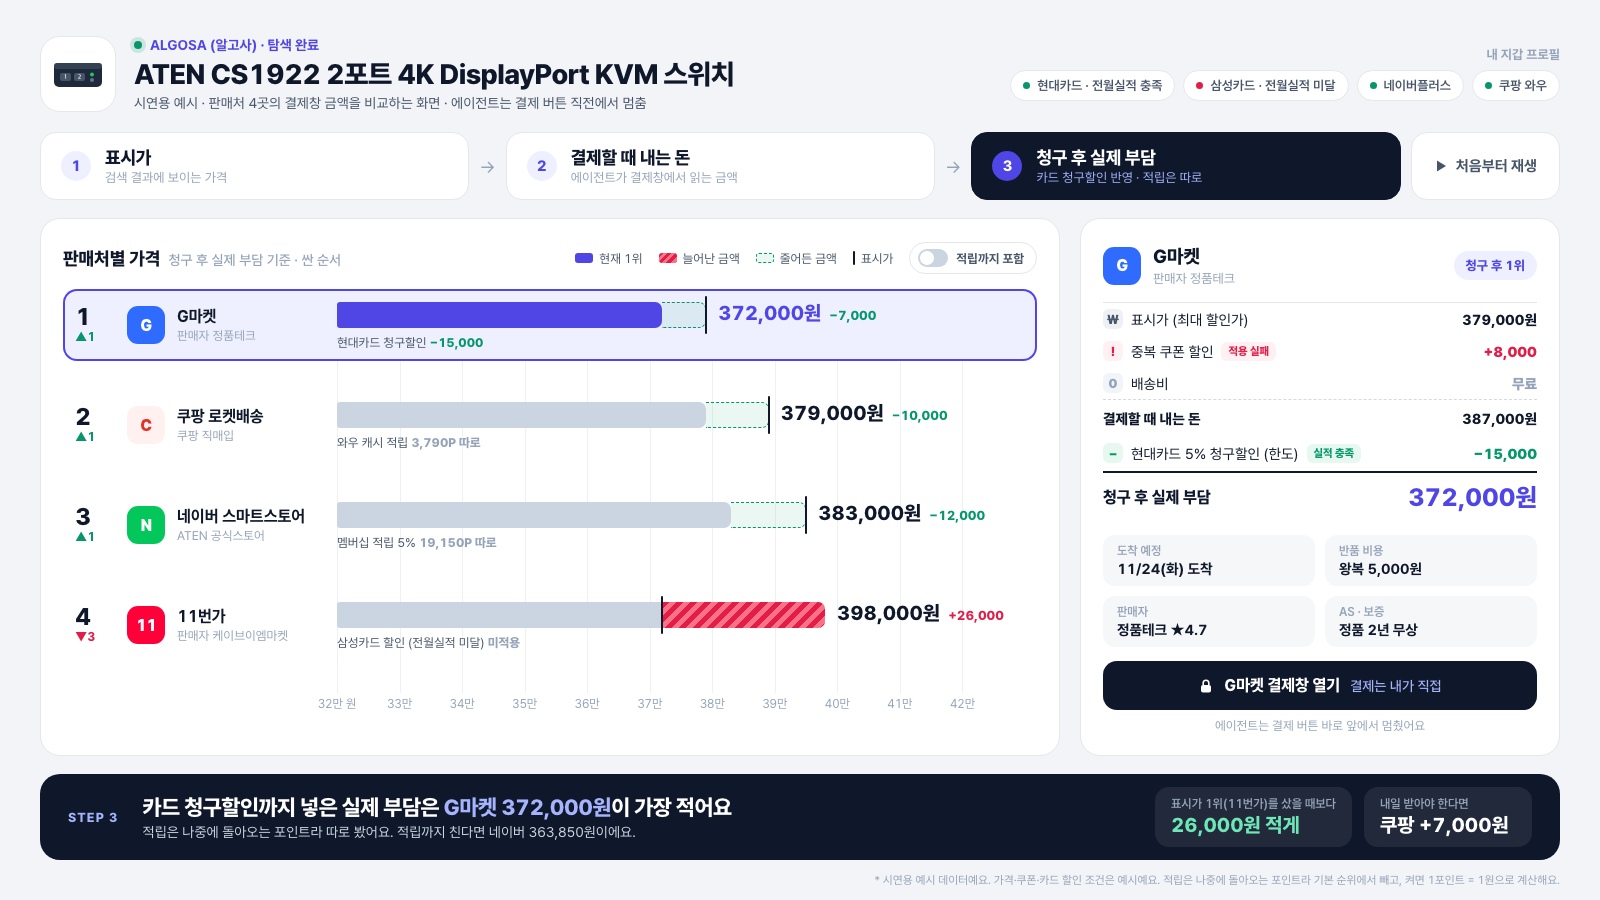
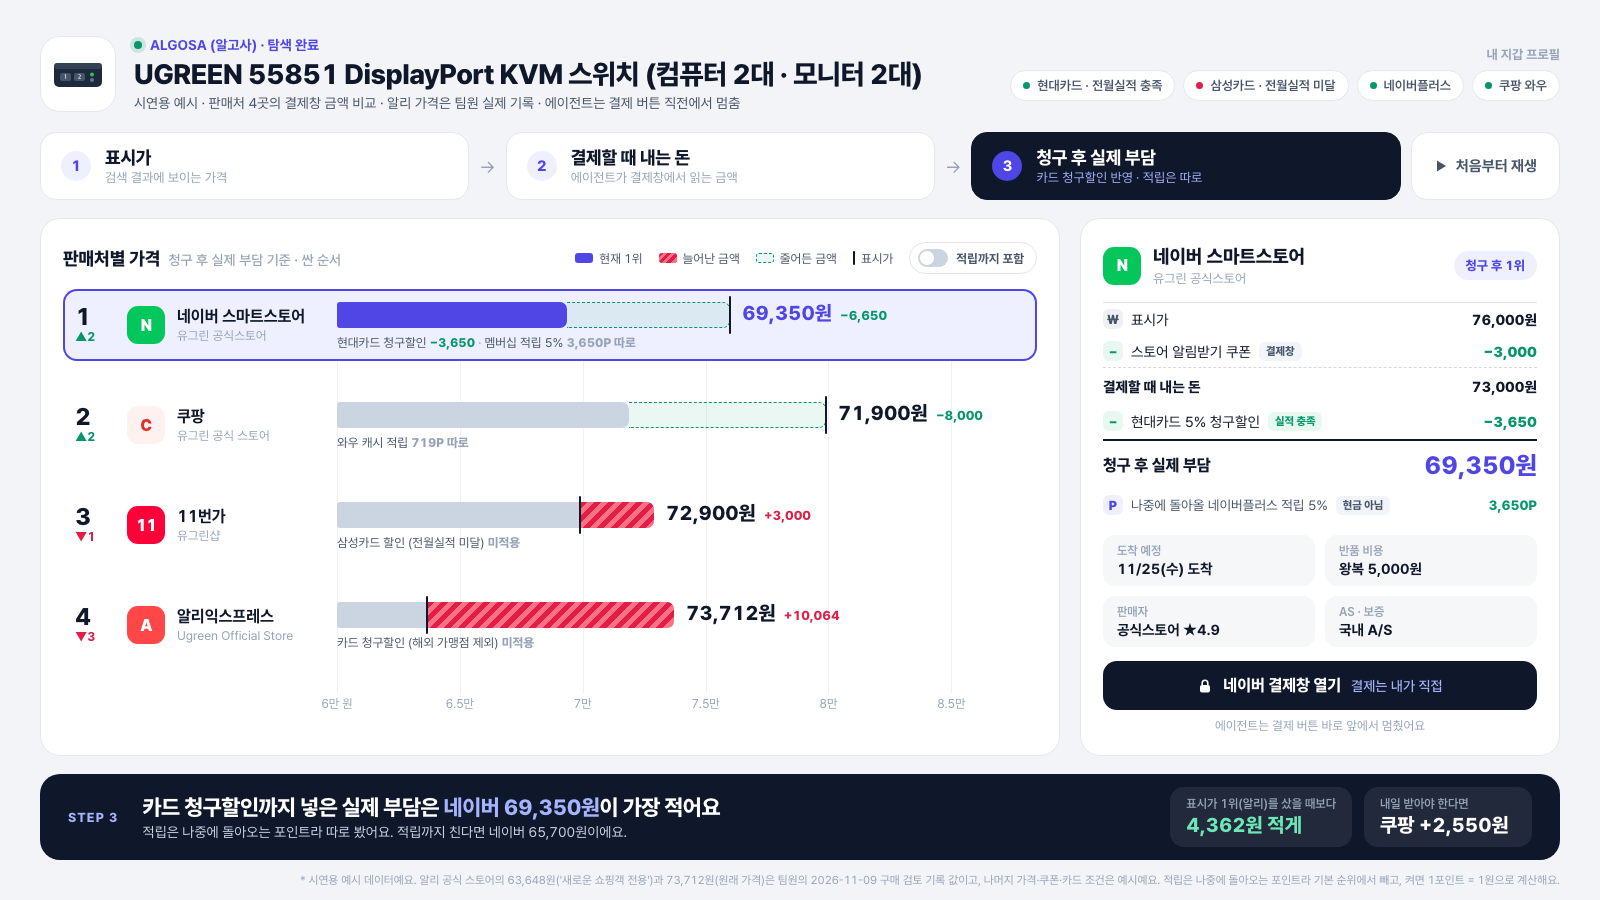
feat: switch demo board to UGREEN 55851 from team purchase record

diff --git a/prototype/price-compare-kvm.html b/prototype/price-compare-kvm.html
@@ -167,8 +167,8 @@ button{font:inherit;color:inherit}
       </div>
       <div>
         <div class="kicker"><span class="dot"></span>ALGOSA (알고사) · 탐색 완료</div>
-        <div class="title">ATEN CS1922 2포트 4K DisplayPort KVM 스위치</div>
-        <div class="sub">시연용 예시 · 판매처 4곳의 결제창 금액을 비교하는 화면 · 에이전트는 결제 버튼 직전에서 멈춤</div>
+        <div class="title">UGREEN 55851 DisplayPort KVM 스위치 (컴퓨터 2대 · 모니터 2대)</div>
+        <div class="sub">시연용 예시 · 판매처 4곳의 결제창 금액 비교 · 알리 가격은 팀원 실제 기록 · 에이전트는 결제 버튼 직전에서 멈춤</div>
       </div>
     </div>
     <div class="wallet">
@@ -211,7 +211,7 @@ button{font:inherit;color:inherit}
     <div class="ins-stats" id="insStats"></div>
   </section>
 
-  <div class="foot">* 시연용 예시 데이터예요. 가격·쿠폰·카드 할인 조건은 예시예요. 적립은 나중에 돌아오는 포인트라 기본 순위에서 빼고, 켜면 1포인트 = 1원으로 계산해요.</div>
+  <div class="foot">* 시연용 예시 데이터예요. 알리 공식 스토어의 63,648원('새로운 쇼핑객 전용')과 73,712원(원래 가격)은 팀원의 2026-11-09 구매 검토 기록 값이고, 나머지 가격·쿠폰·카드 조건은 예시예요. 적립은 나중에 돌아오는 포인트라 기본 순위에서 빼고, 켜면 1포인트 = 1원으로 계산해요.</div>
 </div>
 </div>
 
@@ -225,45 +225,44 @@ const STAGES = [
 // k: base | add | sub | fail(할인 적용 실패로 늘어난 금액) | miss(혜택 미적용, 0원) | zero(무료 항목)
 //    point(나중에 돌아오는 적립 — 현금이 아니라서 기본 순위에서 제외, 토글로 포함)
 const MALLS = [
-  {id:'naver', name:'네이버 스마트스토어', short:'네이버', seller:'ATEN 공식스토어', badge:['N','#03C75A','#fff'],
+  {id:'naver', name:'네이버 스마트스토어', short:'네이버', seller:'유그린 공식스토어', badge:['N','#03C75A','#fff'],
    note1:'공식스토어 · 쿠폰 받기 전 가격',
    lines:[
-     {s:1,k:'base',label:'표시가',amt:395000},
-     {s:2,k:'sub',label:'스토어 알림받기 쿠폰',amt:-12000,tag:'결제창',short:'스토어 쿠폰'},
+     {s:1,k:'base',label:'표시가',amt:76000},
+     {s:2,k:'sub',label:'스토어 알림받기 쿠폰',amt:-3000,tag:'결제창',short:'스토어 쿠폰'},
+     {s:3,k:'sub',label:'현대카드 5% 청구할인',amt:-3650,tag:'실적 충족',tagc:'good',short:'현대카드 청구할인'},
+     {s:3,k:'point',label:'네이버플러스 적립 5%',amt:-3650,tag:'현금 아님',short:'멤버십 적립 5%'},
+   ],
+   meta:{arrive:'11/25(수) 도착',ret:'왕복 5,000원',seller:'공식스토어 ★4.9',as:'국내 A/S'}},
+  {id:'coupang', name:'쿠팡', short:'쿠팡', seller:'유그린 공식 스토어', badge:['C','#FFF1EF','#E4302B'],
+   note1:'와우 회원가',
+   lines:[
+     {s:1,k:'base',label:'표시가',amt:79900},
+     {s:2,k:'sub',label:'웰컴백 쿠폰 (나에게만)',amt:-8000,tag:'개인 쿠폰',short:'나만 받은 웰컴백 쿠폰'},
      {s:2,k:'zero',label:'배송비',val:'무료'},
-     {s:3,k:'point',label:'네이버플러스 적립 5%',amt:-19150,tag:'현금 아님',short:'멤버십 적립 5%'},
+     {s:3,k:'point',label:'와우 쿠팡캐시 적립 1%',amt:-719,tag:'현금 아님',short:'와우 캐시 적립'},
    ],
-   meta:{arrive:'11/25(수) 도착',ret:'왕복 5,000원',seller:'공식스토어 ★4.9',as:'정품 2년 무상'}},
-  {id:'gmarket', name:'G마켓', short:'G마켓', seller:'판매자 정품테크', badge:['G','#2F6BFF','#fff'],
-   note1:"'최대 할인가'로 표기",
+   meta:{arrive:'내일 11/23(월) 도착',ret:'무료 (와우)',seller:'유그린 공식 스토어',as:'국내 A/S'}},
+  {id:'11st', name:'11번가', short:'11번가', seller:'유그린샵', badge:['11','#FF0038','#fff'],
+   note1:'배송비 별도 가격',
    lines:[
-     {s:1,k:'base',label:'표시가 (최대 할인가)',amt:379000},
-     {s:2,k:'fail',label:'중복 쿠폰 할인',amt:8000,tag:'적용 실패',tagc:'bad',short:'중복 쿠폰 적용 실패'},
-     {s:2,k:'zero',label:'배송비',val:'무료'},
-     {s:3,k:'sub',label:'현대카드 5% 청구할인 (한도)',amt:-15000,tag:'실적 충족',tagc:'good',short:'현대카드 청구할인'},
-   ],
-   meta:{arrive:'11/24(화) 도착',ret:'왕복 5,000원',seller:'정품테크 ★4.7',as:'정품 2년 무상'}},
-  {id:'coupang', name:'쿠팡 로켓배송', short:'쿠팡', seller:'쿠팡 직매입', badge:['C','#FFF1EF','#E4302B'],
-   note1:'로켓배송 · 와우 회원가',
-   lines:[
-     {s:1,k:'base',label:'표시가',amt:389000},
-     {s:2,k:'sub',label:'웰컴백 쿠폰 (나에게만)',amt:-10000,tag:'개인 쿠폰',short:'나만 받은 웰컴백 쿠폰'},
-     {s:2,k:'zero',label:'로켓배송',val:'무료'},
-     {s:3,k:'point',label:'와우 쿠팡캐시 적립 1%',amt:-3790,tag:'현금 아님',short:'와우 캐시 적립'},
-   ],
-   meta:{arrive:'내일 11/23(월) 도착',ret:'무료 (와우)',seller:'쿠팡 직매입',as:'정품 2년 무상'}},
-  {id:'11st', name:'11번가', short:'11번가', seller:'판매자 케이브이엠마켓', badge:['11','#FF0038','#fff'],
-   note1:'가장 싼 옵션(HDMI) 기준 가격',
-   lines:[
-     {s:1,k:'base',label:'표시가 (HDMI 옵션 기준)',amt:372000},
-     {s:2,k:'add',label:'DisplayPort 버전 옵션',amt:23000,tag:'옵션 추가금',tagc:'bad',short:'원하는 DP 옵션'},
-     {s:2,k:'add',label:'배송비',amt:3000,short:'배송비'},
+     {s:1,k:'base',label:'표시가',amt:69900},
+     {s:2,k:'add',label:'배송비',amt:3000,tag:'별도',tagc:'bad',short:'배송비'},
      {s:3,k:'miss',label:'삼성카드 7% 청구할인',tag:'실적 미달',tagc:'bad',short:'삼성카드 할인 (전월실적 미달)'},
    ],
-   meta:{arrive:'11/25(수) 도착',ret:'왕복 6,000원',seller:'케이브이엠마켓 ★4.3',as:'판매자 경유'}},
+   meta:{arrive:'11/25(수) 도착',ret:'왕복 6,000원',seller:'유그린샵 ★4.6',as:'국내 A/S'}},
+  {id:'ali', name:'알리익스프레스', short:'알리', seller:'Ugreen Official Store', badge:['A','#FF4747','#fff'],
+   note1:"'새로운 쇼핑객 전용' 가격",
+   lines:[
+     {s:1,k:'base',label:'표시가 (새로운 쇼핑객 전용)',amt:63648},
+     {s:2,k:'fail',label:'신규 회원가 → 원래 가격',amt:10064,tag:'적용 안 됨',tagc:'bad',short:'신규 회원가 미적용'},
+     {s:2,k:'zero',label:'배송비',val:'무료'},
+     {s:3,k:'miss',label:'현대카드 5% 청구할인',tag:'해외 가맹점 제외',tagc:'bad',short:'카드 청구할인 (해외 가맹점 제외)'},
+   ],
+   meta:{arrive:'11/28~12/4 도착 예정',ret:'무료 반품',seller:'Ugreen Official ★4.8',as:'해외 판매처 경유'}},
 ];
 
-const DMIN = 320000, DMAX = 430000, TICK = 10000, ROW_H = 100;
+const DMIN = 60000, DMAX = 88000, TICK = 5000, ROW_H = 100;
 const $ = id => document.getElementById(id);
 const fmt = n => Math.abs(n).toLocaleString('ko-KR');
 const pct = v => ((v - DMIN) / (DMAX - DMIN) * 100);
@@ -427,7 +426,7 @@ function renderInsight(){
     stats = [{l:'비교한 판매처', v:`${n}곳`}, {l:'표시가 최대 차이', v:fmt(Math.max(...ps) - Math.min(...ps)) + '원'}];
   } else if (s === 2) {
     title = `결제창에 들어가 보니 1위가 <mark>${top2.short}</mark>으로 바뀌었어요`;
-    sub = `11번가는 내 모니터에 필요한 DP 옵션 +23,000원과 배송비가, G마켓은 '최대 할인가'의 중복 쿠폰이 안 먹어 +8,000원이 붙었어요.`;
+    sub = `알리의 63,648원은 '새로운 쇼핑객 전용' 가격이라 내 결제창에선 원래 가격 73,712원이 됐고, 11번가는 배송비 3,000원이 붙었어요. 쿠팡은 나에게만 온 웰컴백 쿠폰이 적용됐어요.`;
     const moved = MALLS.filter(m => ranking(1).indexOf(m.id) !== ranking(2).indexOf(m.id)).length;
     stats = [{l:'순위가 바뀐 판매처', v:`${n}곳 중 ${moved}곳`},
              {l:`표시가 1위(${top1.short})의 숨은 비용`, v:'+' + fmt(price(top1,2) - price(top1,1)) + '원', c:'bad'}];

diff --git a/PROJECT_OVERVIEW.md b/PROJECT_OVERVIEW.md
@@ -25,6 +25,9 @@
 | 시연 방식 | 맥의 iPhone Mirroring 창을 에이전트가 조작해 로그인된 쿠팡·네이버 앱의 결제창까지 진입(바로구매 경로, 결제 버튼은 누르지 않음) | 확정 |
 | 성과 지표 | 속도는 보조 관찰값. 중요한 조건의 누락 감소, 개인 조건 충족도, 선택별 장단점 이해, 표시가 대비 실제 총비용 차이를 우선 | 확정 |
 | 제품 범위 | 비전은 여러 분야(옷·화분·숙소 등), MVP·시연은 KVM 하나 | 확정 |
+| 발표 예시 | 발표 자료의 스토리·페르소나·프로토타입 예시는 KVM 하나만 사용. 맥북 스토리와 맥북 쿠팡 캡처는 발표에 넣지 않음. 스토리 근거는 팀원의 실제 기록 [KVM_구매_검토_과정.md](KVM_구매_검토_과정.md). 결정 보드 시연 상품도 이 기록에 맞춰 ATEN CS1922 → UGREEN 55851로 교체(알리 63,648원·73,712원만 실제 기록, 나머지는 예시) | 확정 (2026-11-22, 사용자) |
+| 발표 도입부 | 도입부는 팀원 index.html의 발표 슬라이드(제목 → 컨셉 → 예시 → 왜 이해가 필요한가 → 결과만 받은 사용자)를 기반으로 한다. 표지에는 상품명(KVM)을 넣지 않고 "제품을 정확히 이해하고 사세요"를 내건다. 컨셉은 "빠르고 단순한 구매를 넘어, 나에게 더 맞고 더 디테일한 쇼핑". 에이전트가 '딸깍' 편하게 대신 사주는 흔한 방향과 대비해, 제품을 디테일하게 이해하고 사게 해서 실제 만족도를 높이는 것을 목표로 말한다(만족도를 보장한다고 하지 않음). "아무리 뛰어난 에이전트도 사용자에게 묻지 않으면 알 수 없는 것이 있다"는 메시지를 넣는다 | 확정 (2026-11-22 16:15, 사용자) |
+| 확장 장표 | 다른 분야에도 적용됨을 보여주는 장표 1장 추가. 주인공은 패알못이 청바지를 사는 장면(유행·커뮤니티 평가, 청바지 종류, 사이즈 팁, 워싱 등 전문 정보)이고 화분·숙소는 작은 예시. 화면·데이터가 없는 개념 예시로 표시 | 확정 (2026-11-22 16:05, 사용자) |
 | 제품명 | ALGOSA (알고사): 내게 맞는지 알고, 진짜 가격을 알고, 사 | 확정 (15:40) |
 
 이 결정으로 아래 '아직 정하지 않은 사항' 중 대표 상품군, 첫 시연 사례, 지원 쇼핑몰(국내 쿠팡·네이버), 자동 결제 포함 여부가 정해졌다. 개인 조건 확인 방법은 PRD에서 마이데이터 제휴(카드)와 결제창 반영(멤버십)을 제안했고, 시연에서는 사용자가 확인한 값을 가정으로 표시한다.
@@ -92,6 +95,8 @@ AI 에이전트의 정밀한 분석과 사용자의 이해를 통해, 개인의 
 ### 1. 에이전트의 탐색을 이해하고 평가하는 경험
 
 핵심 문제의식은 AI와 함께하는 작업에서 인간의 이해가 병목이라는 것이다. 이는 팀의 출발 가설이며, 일반적으로 검증된 사실로 단정하지 않는다.
+
+사용자가 구체화한 병목 (2026-11-22): ChatGPT와 대화하며 KVM을 고르면 대화와 스크롤이 길어져 처음에 말한 정보를 다시 찾기 어렵다. 주고받는 정보가 거의 텍스트라 F자 읽기처럼 훑어 읽게 되고, 그 과정에서 정보가 새어 나가 사용자의 이해도가 낮아진다. 이 프로젝트의 주된 목적은 사용자의 제품 이해 병목을 줄이는 것이며, 발표도 이 문제를 중심 문제로 둔다. 진짜 가격 분석은 사용자가 이해해야 할 대상의 하나로 그 아래에 놓는다.
 
 추천 결과만으로는 에이전트가 충분히 탐색했는지, 자신의 상황을 제대로 반영했는지, 제시된 선택지가 최선인지 판단하기 어렵다. 따라서 전체 의사결정 흐름과 현재 선택지를 시각적 아티팩트로 보여준다.
 
